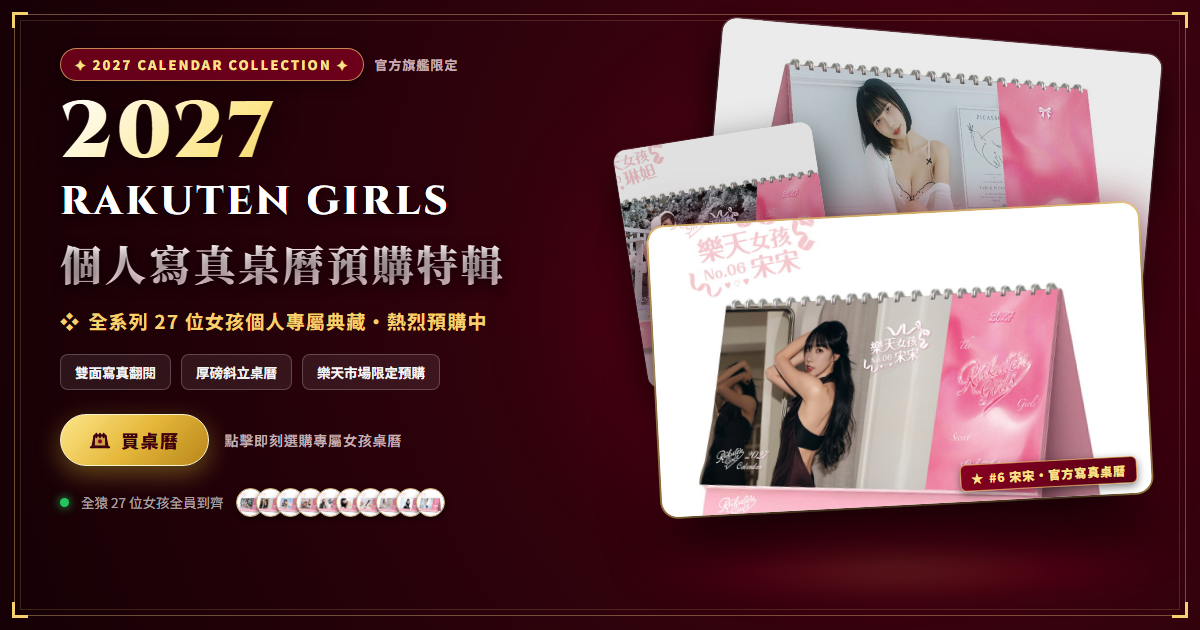
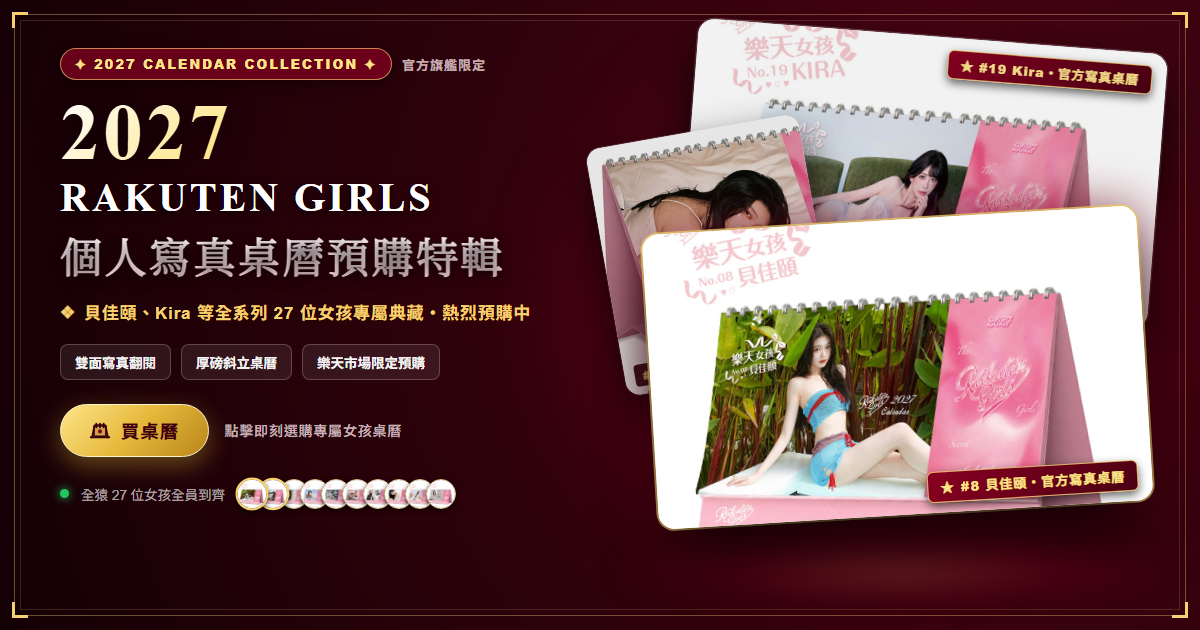
feat: 更新社群分享縮圖主視覺改以貝佳頤與 Kira 為雙主角 (v0.8.49.0)

diff --git a/index.html b/index.html
@@ -21,9 +21,9 @@
     <meta property="og:type" content="website" />
     <meta property="og:url" content="https://mouse170.github.io/rkg_schedule/" />
     <meta property="og:title" content="樂天女孩即時上班班表｜2027 Rakuten Girls 個人寫真桌曆預購特輯" />
-    <meta property="og:description" content="全猿主場應援席位查詢系統！掌握樂天女孩各場次出勤名單、看台換側站位。全新 2027 Rakuten Girls 個人專屬寫真桌曆熱烈預購中，收錄全彩私服與應援雙面翻閱厚卡，立即典藏你的專屬女孩！" />
-    <meta property="og:image" content="https://mouse170.github.io/rkg_schedule/og-image.png?v=2027_calendar_og" />
-    <meta property="og:image:secure_url" content="https://mouse170.github.io/rkg_schedule/og-image.png?v=2027_calendar_og" />
+    <meta property="og:description" content="全猿主場應援席位查詢系統！掌握樂天女孩各場次出勤名單、看台換側站位。全新 2027 Rakuten Girls 貝佳頤、Kira 等全系列 27 位女孩個人專屬寫真桌曆熱烈預購中，收錄全彩私服與應援雙面翻閱厚卡，立即典藏你的專屬女孩！" />
+    <meta property="og:image" content="https://mouse170.github.io/rkg_schedule/og-image.png?v=2027_calendar_bk" />
+    <meta property="og:image:secure_url" content="https://mouse170.github.io/rkg_schedule/og-image.png?v=2027_calendar_bk" />
     <meta property="og:image:type" content="image/png" />
     <meta property="og:image:width" content="1200" />
     <meta property="og:image:height" content="630" />
@@ -36,8 +36,8 @@
     <meta name="twitter:card" content="summary_large_image" />
     <meta name="twitter:url" content="https://mouse170.github.io/rkg_schedule/" />
     <meta name="twitter:title" content="樂天女孩即時上班班表｜2027 Rakuten Girls 個人寫真桌曆預購特輯" />
-    <meta name="twitter:description" content="全猿主場應援席位查詢系統！掌握樂天女孩各場次出勤名單、看台換側站位。全新 2027 Rakuten Girls 個人專屬寫真桌曆熱烈預購中，收錄全彩私服與應援雙面翻閱厚卡，立即典藏你的專屬女孩！" />
-    <meta name="twitter:image" content="https://mouse170.github.io/rkg_schedule/og-image.png?v=2027_calendar_og" />
+    <meta name="twitter:description" content="全猿主場應援席位查詢系統！掌握樂天女孩各場次出勤名單、看台換側站位。全新 2027 Rakuten Girls 貝佳頤、Kira 等全系列 27 位女孩個人專屬寫真桌曆熱烈預購中，收錄全彩私服與應援雙面翻閱厚卡，立即典藏你的專屬女孩！" />
+    <meta name="twitter:image" content="https://mouse170.github.io/rkg_schedule/og-image.png?v=2027_calendar_bk" />
 
     <!-- Structured Data: Schema.org JSON-LD -->
     <script type="application/ld+json">
